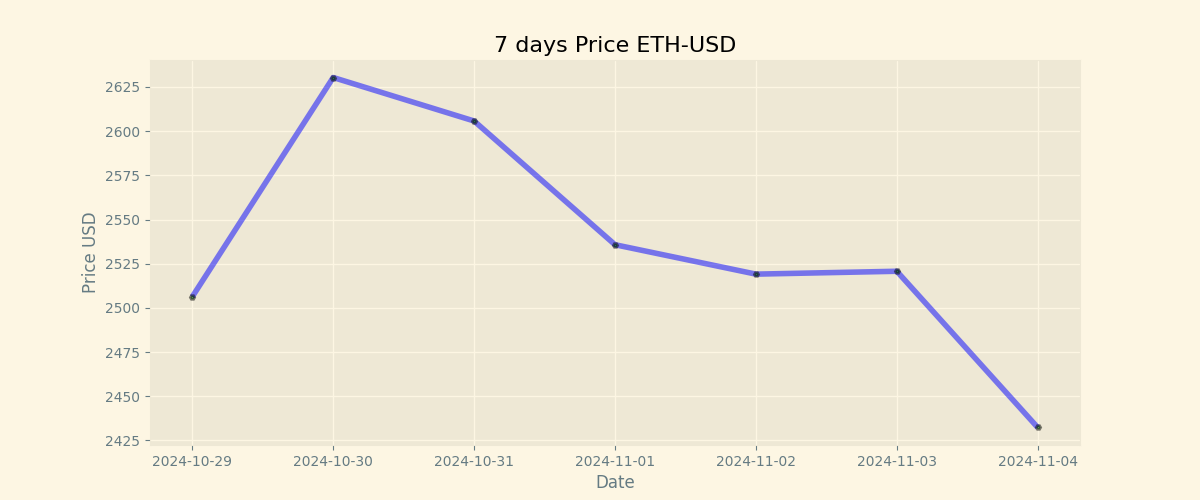
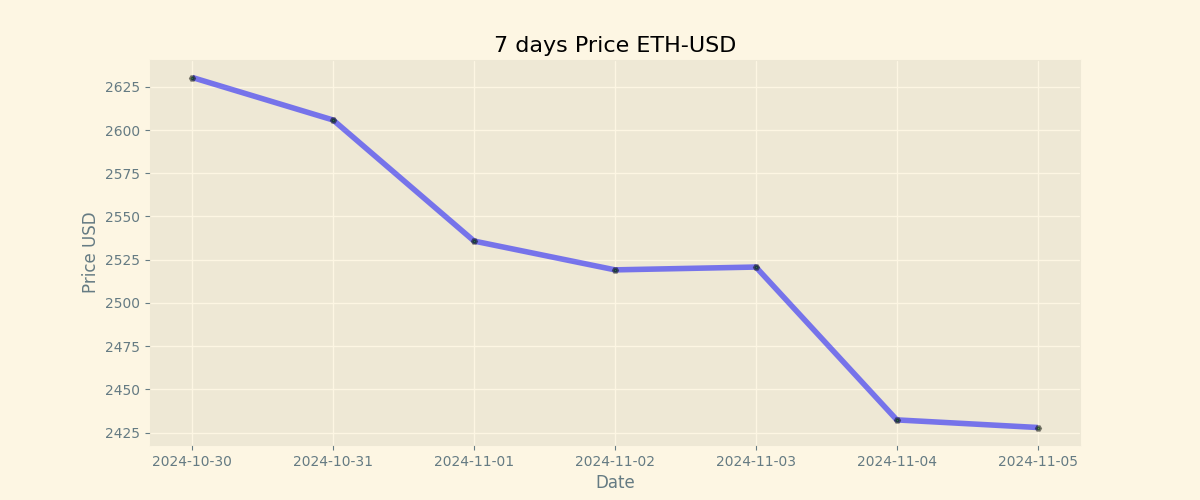
Duty Updates 2024-11-05

diff --git a/README.md b/README.md
@@ -9,8 +9,8 @@
 
 | Currency | Price           |
 | -------- | --------------- |
-| **BTC**  | **$ 68418.81** |
-| **ETH**  | **$ 2432.32** |
+| **BTC**  | **$ 68837.52** |
+| **ETH**  | **$ 2427.92** |
 
 ## BTC chart
 
